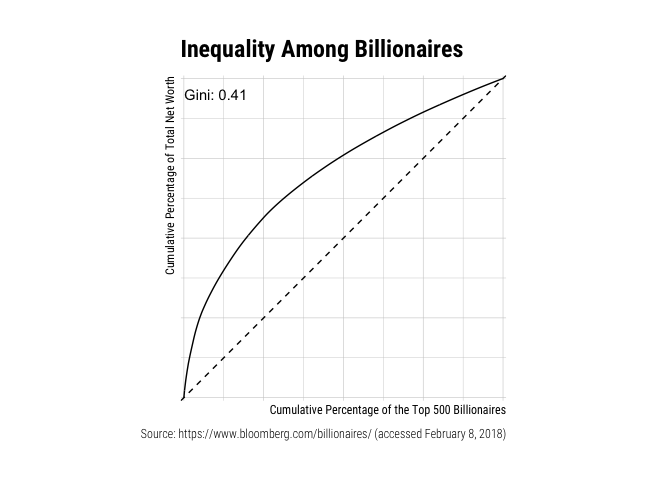
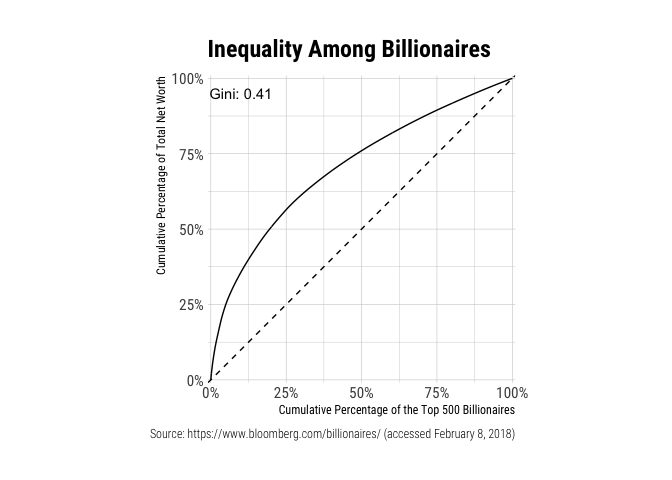
Fix axis text

diff --git a/docs/news/index.html b/docs/news/index.html
@@ -67,7 +67,7 @@
       </button>
       <span class="navbar-brand">
         <a class="navbar-link" href="../index.html">gglorenz</a>
-        <span class="version label label-default" data-toggle="tooltip" data-placement="bottom" title="Released version">0.0.2</span>
+        <span class="version label label-default" data-toggle="tooltip" data-placement="bottom" title="Released version">0.0.2.9000</span>
       </span>
     </div>
 
@@ -110,6 +110,11 @@
       <small>Source: <a href='https://github.com/jjchern/gglorenz/blob/master/NEWS.md'><code>NEWS.md</code></a></small>
     </div>
 
+    <div id="gglorenz-0-0-2-9000-development-version" class="section level1">
+<h1 class="page-header">
+<a href="#gglorenz-0-0-2-9000-development-version" class="anchor"></a>gglorenz 0.0.2.9000 (development version)<small> Unreleased </small>
+</h1>
+</div>
     <div id="gglorenz-0-0-2" class="section level1">
 <h1 class="page-header">
 <a href="#gglorenz-0-0-2" class="anchor"></a>gglorenz 0.0.2<small> 2020-05-27 </small>
@@ -134,6 +139,7 @@
     <div id="tocnav">
       <h2>Contents</h2>
       <ul class="nav nav-pills nav-stacked">
+        <li><a href="#gglorenz-0-0-2-9000-development-version">0.0.2.9000</a></li>
         <li><a href="#gglorenz-0-0-2">0.0.2</a></li>
         <li><a href="#gglorenz-0-0-1">0.0.1</a></li>
       </ul>

diff --git a/docs/reference/annotate_ineq.html b/docs/reference/annotate_ineq.html
@@ -70,7 +70,7 @@ Inequality measures include Gini, RS, Atkinson, Theil, Kol, var, square.var, ent
       </button>
       <span class="navbar-brand">
         <a class="navbar-link" href="../index.html">gglorenz</a>
-        <span class="version label label-default" data-toggle="tooltip" data-placement="bottom" title="Released version">0.0.2</span>
+        <span class="version label label-default" data-toggle="tooltip" data-placement="bottom" title="Released version">0.0.2.9000</span>
       </span>
     </div>
 

diff --git a/docs/reference/gglorenz-package.html b/docs/reference/gglorenz-package.html
@@ -70,7 +70,7 @@ empirical ordinary Lorenz curve and generalized Lorenz curve." />
       </button>
       <span class="navbar-brand">
         <a class="navbar-link" href="../index.html">gglorenz</a>
-        <span class="version label label-default" data-toggle="tooltip" data-placement="bottom" title="Released version">0.0.2</span>
+        <span class="version label label-default" data-toggle="tooltip" data-placement="bottom" title="Released version">0.0.2.9000</span>
       </span>
     </div>
 

diff --git a/docs/reference/billionaires.html b/docs/reference/billionaires.html
@@ -69,7 +69,7 @@
       </button>
       <span class="navbar-brand">
         <a class="navbar-link" href="../index.html">gglorenz</a>
-        <span class="version label label-default" data-toggle="tooltip" data-placement="bottom" title="Released version">0.0.2</span>
+        <span class="version label label-default" data-toggle="tooltip" data-placement="bottom" title="Released version">0.0.2.9000</span>
       </span>
     </div>
 

diff --git a/docs/reference/index.html b/docs/reference/index.html
@@ -67,7 +67,7 @@
       </button>
       <span class="navbar-brand">
         <a class="navbar-link" href="../index.html">gglorenz</a>
-        <span class="version label label-default" data-toggle="tooltip" data-placement="bottom" title="Released version">0.0.2</span>
+        <span class="version label label-default" data-toggle="tooltip" data-placement="bottom" title="Released version">0.0.2.9000</span>
       </span>
     </div>
 

diff --git a/docs/reference/stat_lorenz.html b/docs/reference/stat_lorenz.html
@@ -69,7 +69,7 @@
       </button>
       <span class="navbar-brand">
         <a class="navbar-link" href="../index.html">gglorenz</a>
-        <span class="version label label-default" data-toggle="tooltip" data-placement="bottom" title="Released version">0.0.2</span>
+        <span class="version label label-default" data-toggle="tooltip" data-placement="bottom" title="Released version">0.0.2.9000</span>
       </span>
     </div>
 

diff --git a/docs/reference/stat_lorenz_generalized.html b/docs/reference/stat_lorenz_generalized.html
@@ -69,7 +69,7 @@
       </button>
       <span class="navbar-brand">
         <a class="navbar-link" href="../index.html">gglorenz</a>
-        <span class="version label label-default" data-toggle="tooltip" data-placement="bottom" title="Released version">0.0.2</span>
+        <span class="version label label-default" data-toggle="tooltip" data-placement="bottom" title="Released version">0.0.2.9000</span>
       </span>
     </div>
 

diff --git a/docs/404.html b/docs/404.html
@@ -67,7 +67,7 @@
       </button>
       <span class="navbar-brand">
         <a class="navbar-link" href="index.html">gglorenz</a>
-        <span class="version label label-default" data-toggle="tooltip" data-placement="bottom" title="Released version">0.0.2</span>
+        <span class="version label label-default" data-toggle="tooltip" data-placement="bottom" title="Released version">0.0.2.9000</span>
       </span>
     </div>
 

diff --git a/docs/LICENSE-text.html b/docs/LICENSE-text.html
@@ -67,7 +67,7 @@
       </button>
       <span class="navbar-brand">
         <a class="navbar-link" href="index.html">gglorenz</a>
-        <span class="version label label-default" data-toggle="tooltip" data-placement="bottom" title="Released version">0.0.2</span>
+        <span class="version label label-default" data-toggle="tooltip" data-placement="bottom" title="Released version">0.0.2.9000</span>
       </span>
     </div>
 

diff --git a/docs/LICENSE.html b/docs/LICENSE.html
@@ -67,7 +67,7 @@
       </button>
       <span class="navbar-brand">
         <a class="navbar-link" href="index.html">gglorenz</a>
-        <span class="version label label-default" data-toggle="tooltip" data-placement="bottom" title="Released version">0.0.2</span>
+        <span class="version label label-default" data-toggle="tooltip" data-placement="bottom" title="Released version">0.0.2.9000</span>
       </span>
     </div>
 

diff --git a/docs/authors.html b/docs/authors.html
@@ -67,7 +67,7 @@
       </button>
       <span class="navbar-brand">
         <a class="navbar-link" href="index.html">gglorenz</a>
-        <span class="version label label-default" data-toggle="tooltip" data-placement="bottom" title="Released version">0.0.2</span>
+        <span class="version label label-default" data-toggle="tooltip" data-placement="bottom" title="Released version">0.0.2.9000</span>
       </span>
     </div>
 

diff --git a/docs/index.html b/docs/index.html
@@ -33,7 +33,7 @@
       </button>
       <span class="navbar-brand">
         <a class="navbar-link" href="index.html">gglorenz</a>
-        <span class="version label label-default" data-toggle="tooltip" data-placement="bottom" title="Released version">0.0.2</span>
+        <span class="version label label-default" data-toggle="tooltip" data-placement="bottom" title="Released version">0.0.2.9000</span>
       </span>
     </div>
 
